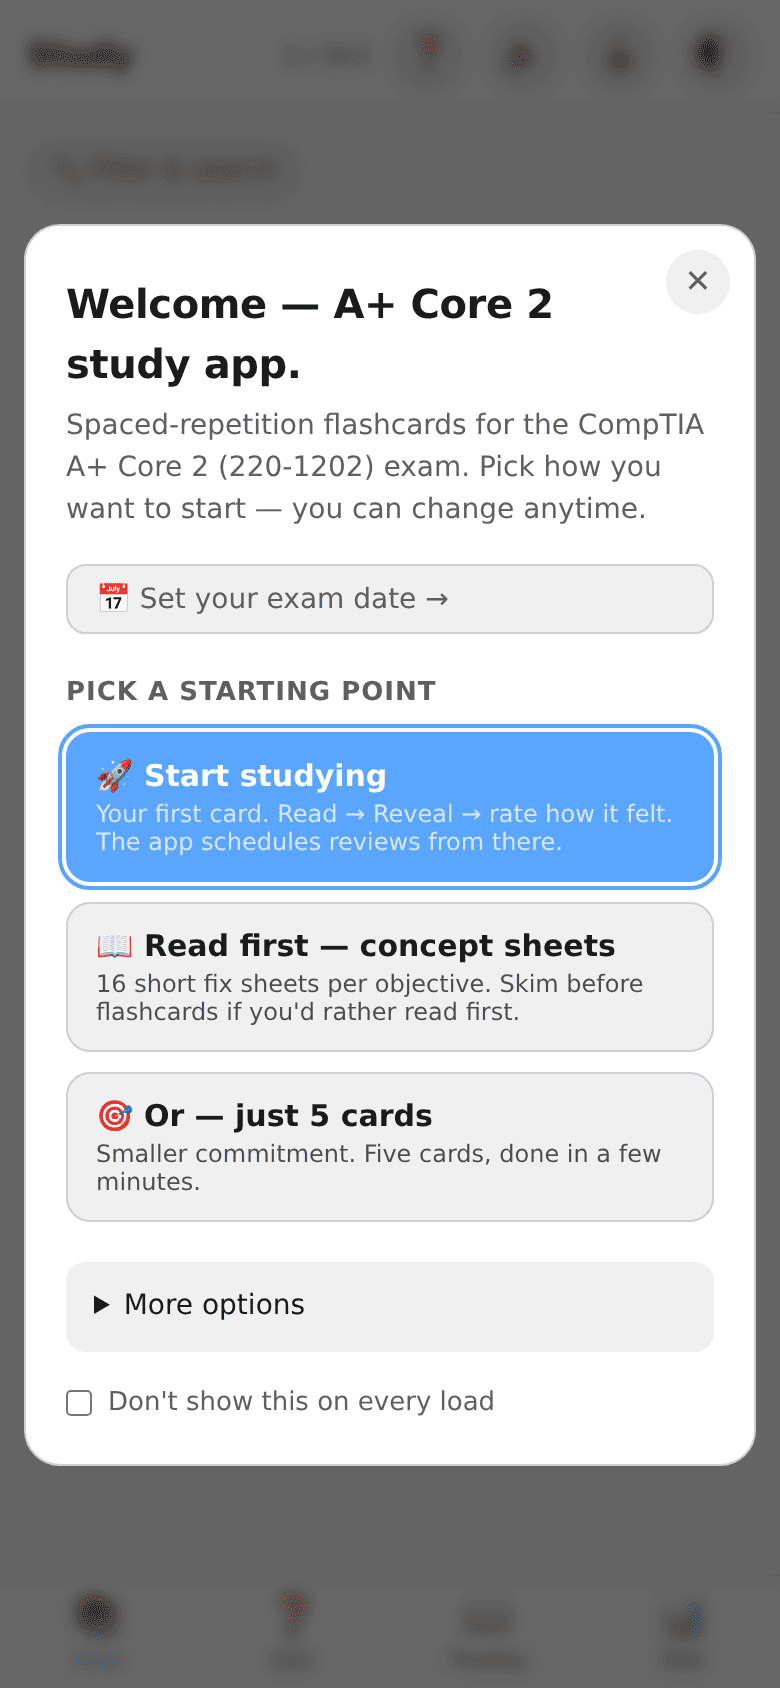
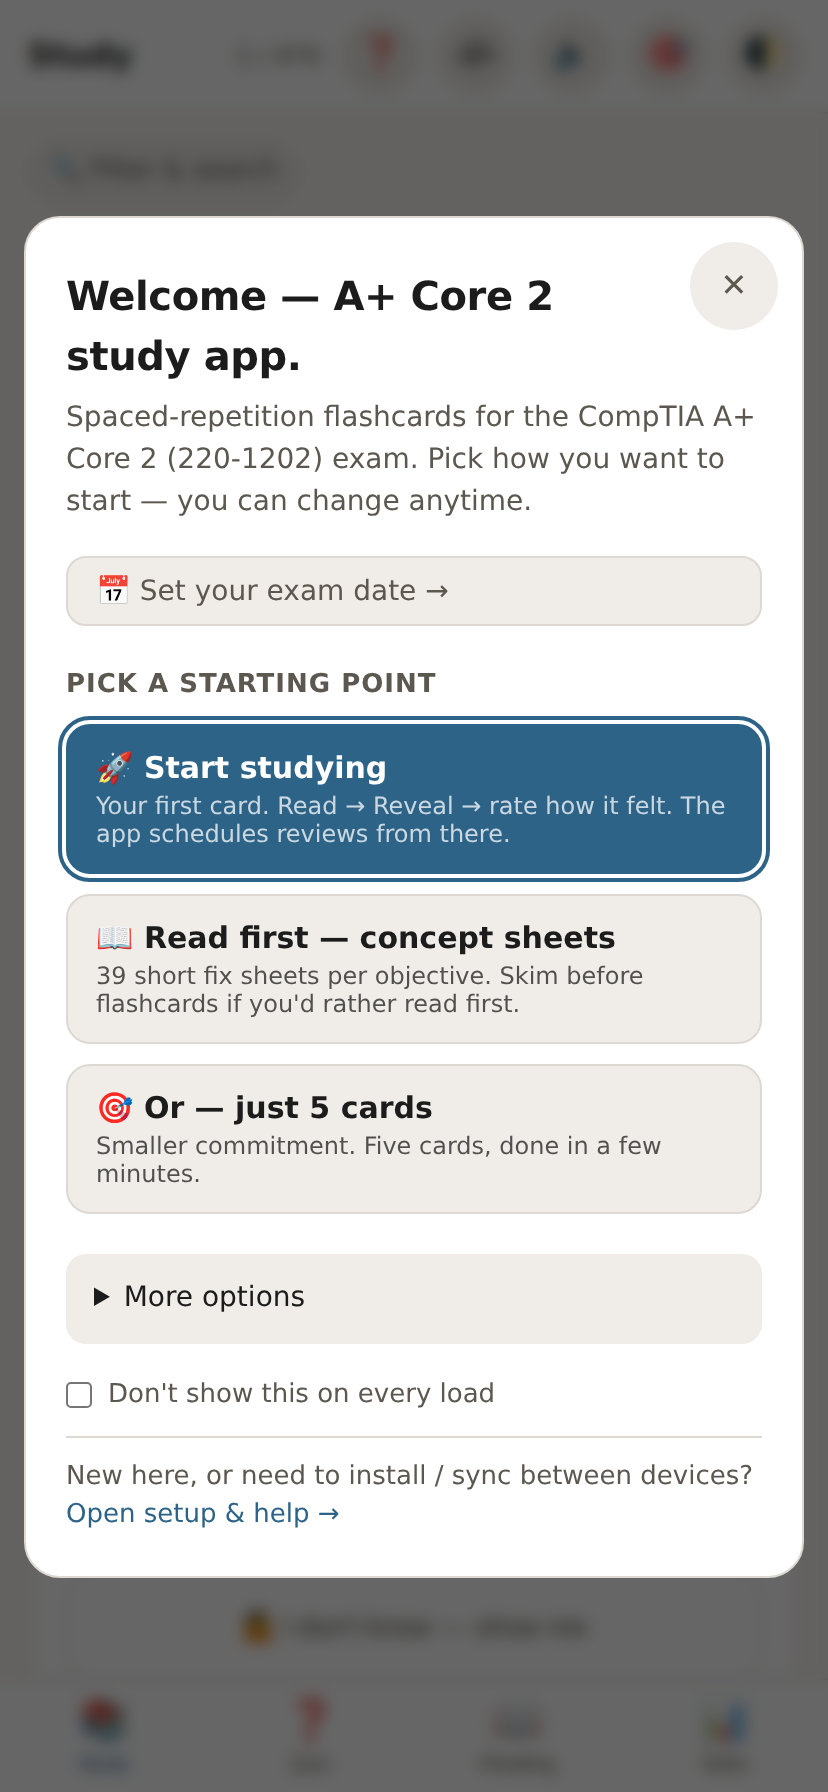
Add portfolio framing + real app screenshots
- PORTFOLIO.md: ready-to-use LinkedIn post, résumé blurb, GitHub "About"
  line, and interview talking points. Leads with the engineering and keeps
  the project framed as non-commercial (reinforcing the trademark fair-use
  posture in DISCLAIMER.md).
- Captured study / reading / welcome screenshots from the running app into
  docs/screenshots/, filling the README's existing (previously empty) image
  slots so the repo shows the UI at a glance.

diff --git a/PORTFOLIO.md b/PORTFOLIO.md
@@ -1,0 +1,75 @@
+# Portfolio framing
+
+Ready-to-use copy for sharing this project (LinkedIn, résumé, GitHub). Lead with
+the **engineering**; mention the certification as proof you know the domain. Keep
+it **non-commercial** (no ads, paywall, or "buy me a coffee") — that, plus the
+[disclaimer](DISCLAIMER.md), is what keeps the trademark use clearly fair.
+
+> Tip: put a **screenshot of the app** (not a CompTIA logo) at the top of any
+> post, and pin this repo on your GitHub profile.
+
+---
+
+## LinkedIn post
+
+> 🎉 I'm officially **CompTIA A+ certified** (passed both Core 1 and Core 2)!
+>
+> Instead of *just* studying, I built the tool I studied with: **A+ Study**, an
+> offline-first study PWA — and it turned into the engineering project I'm most
+> proud of.
+>
+> A few things under the hood:
+> • **Zero dependencies, no build step** — ~5k lines of vanilla ES-module
+>   JavaScript. Clone and open `index.html`.
+> • **FSRS-4 spaced repetition** — the scheduling algorithm Anki adopted as its
+>   default, implemented from scratch and unit-tested.
+> • **Real client-side encryption** — an optional PIN derives an AES-GCM-256 key
+>   (PBKDF2, 310k iterations) and encrypts everything at rest. The PIN is never
+>   stored.
+> • **Offline-first PWA** — a service worker precaches the shell + question bank,
+>   so it runs in airplane mode and installs to the home screen like a native app.
+> • **Accessibility as a design driver** — focus traps, reduced-motion support,
+>   dyslexia-friendly fonts, high-contrast mode, and an "anxiety mode" that hides
+>   judgmental metrics. I built it neurodivergent-first because that's how *I*
+>   needed to study.
+>
+> Open-source (MIT), with all original practice questions written to CompTIA's
+> public exam objectives.
+>
+> 🔗 Live demo: https://aplusstudyapp.pages.dev
+> 💻 Code: https://github.com/manderwall/aplusstudyapp
+>
+> #CompTIA #APlus #JavaScript #WebDevelopment #PWA #Accessibility #OpenSource
+
+---
+
+## Résumé / portfolio blurb
+
+> **A+ Study** — Offline-first study PWA (vanilla JS, zero dependencies, no build
+> step). Implemented the FSRS-4 spaced-repetition scheduler from scratch,
+> client-side AES-GCM encryption via the Web Crypto API, and an accessibility-first
+> UI. Unit + browser-smoke tested, CI-gated, deployed on Cloudflare Pages.
+> Open-source (MIT).
+
+---
+
+## GitHub "About" one-liner
+
+> Offline-first CompTIA A+ study PWA — vanilla JS, zero deps, FSRS spaced
+> repetition, client-side encryption, accessibility-first. Unofficial/independent.
+
+---
+
+## Talking points (for interviews)
+
+- **Why no framework?** Wanted full control of the render path and a zero-install,
+  offline-capable artifact. Trade-off: hand-rolled state/DOM updates instead of a
+  framework's reconciler.
+- **The spaced-repetition scheduler.** FSRS-4 models each card's *stability* and
+  *difficulty* and schedules the next review to hit a target retention. Pure,
+  side-effect-free, and unit-tested (`lib.mjs`).
+- **Touch-safety stack.** iPad "ghost taps" after revealing an answer would skip
+  cards; fixed with a layered guard (pointer-events lockout, timestamp guards,
+  swipe-target checks) documented so it doesn't regress.
+- **Accessibility.** Treated as a design driver, not a checkbox — focus traps,
+  ARIA live regions, reduced-motion, text scaling, dyslexia-friendly fonts.
